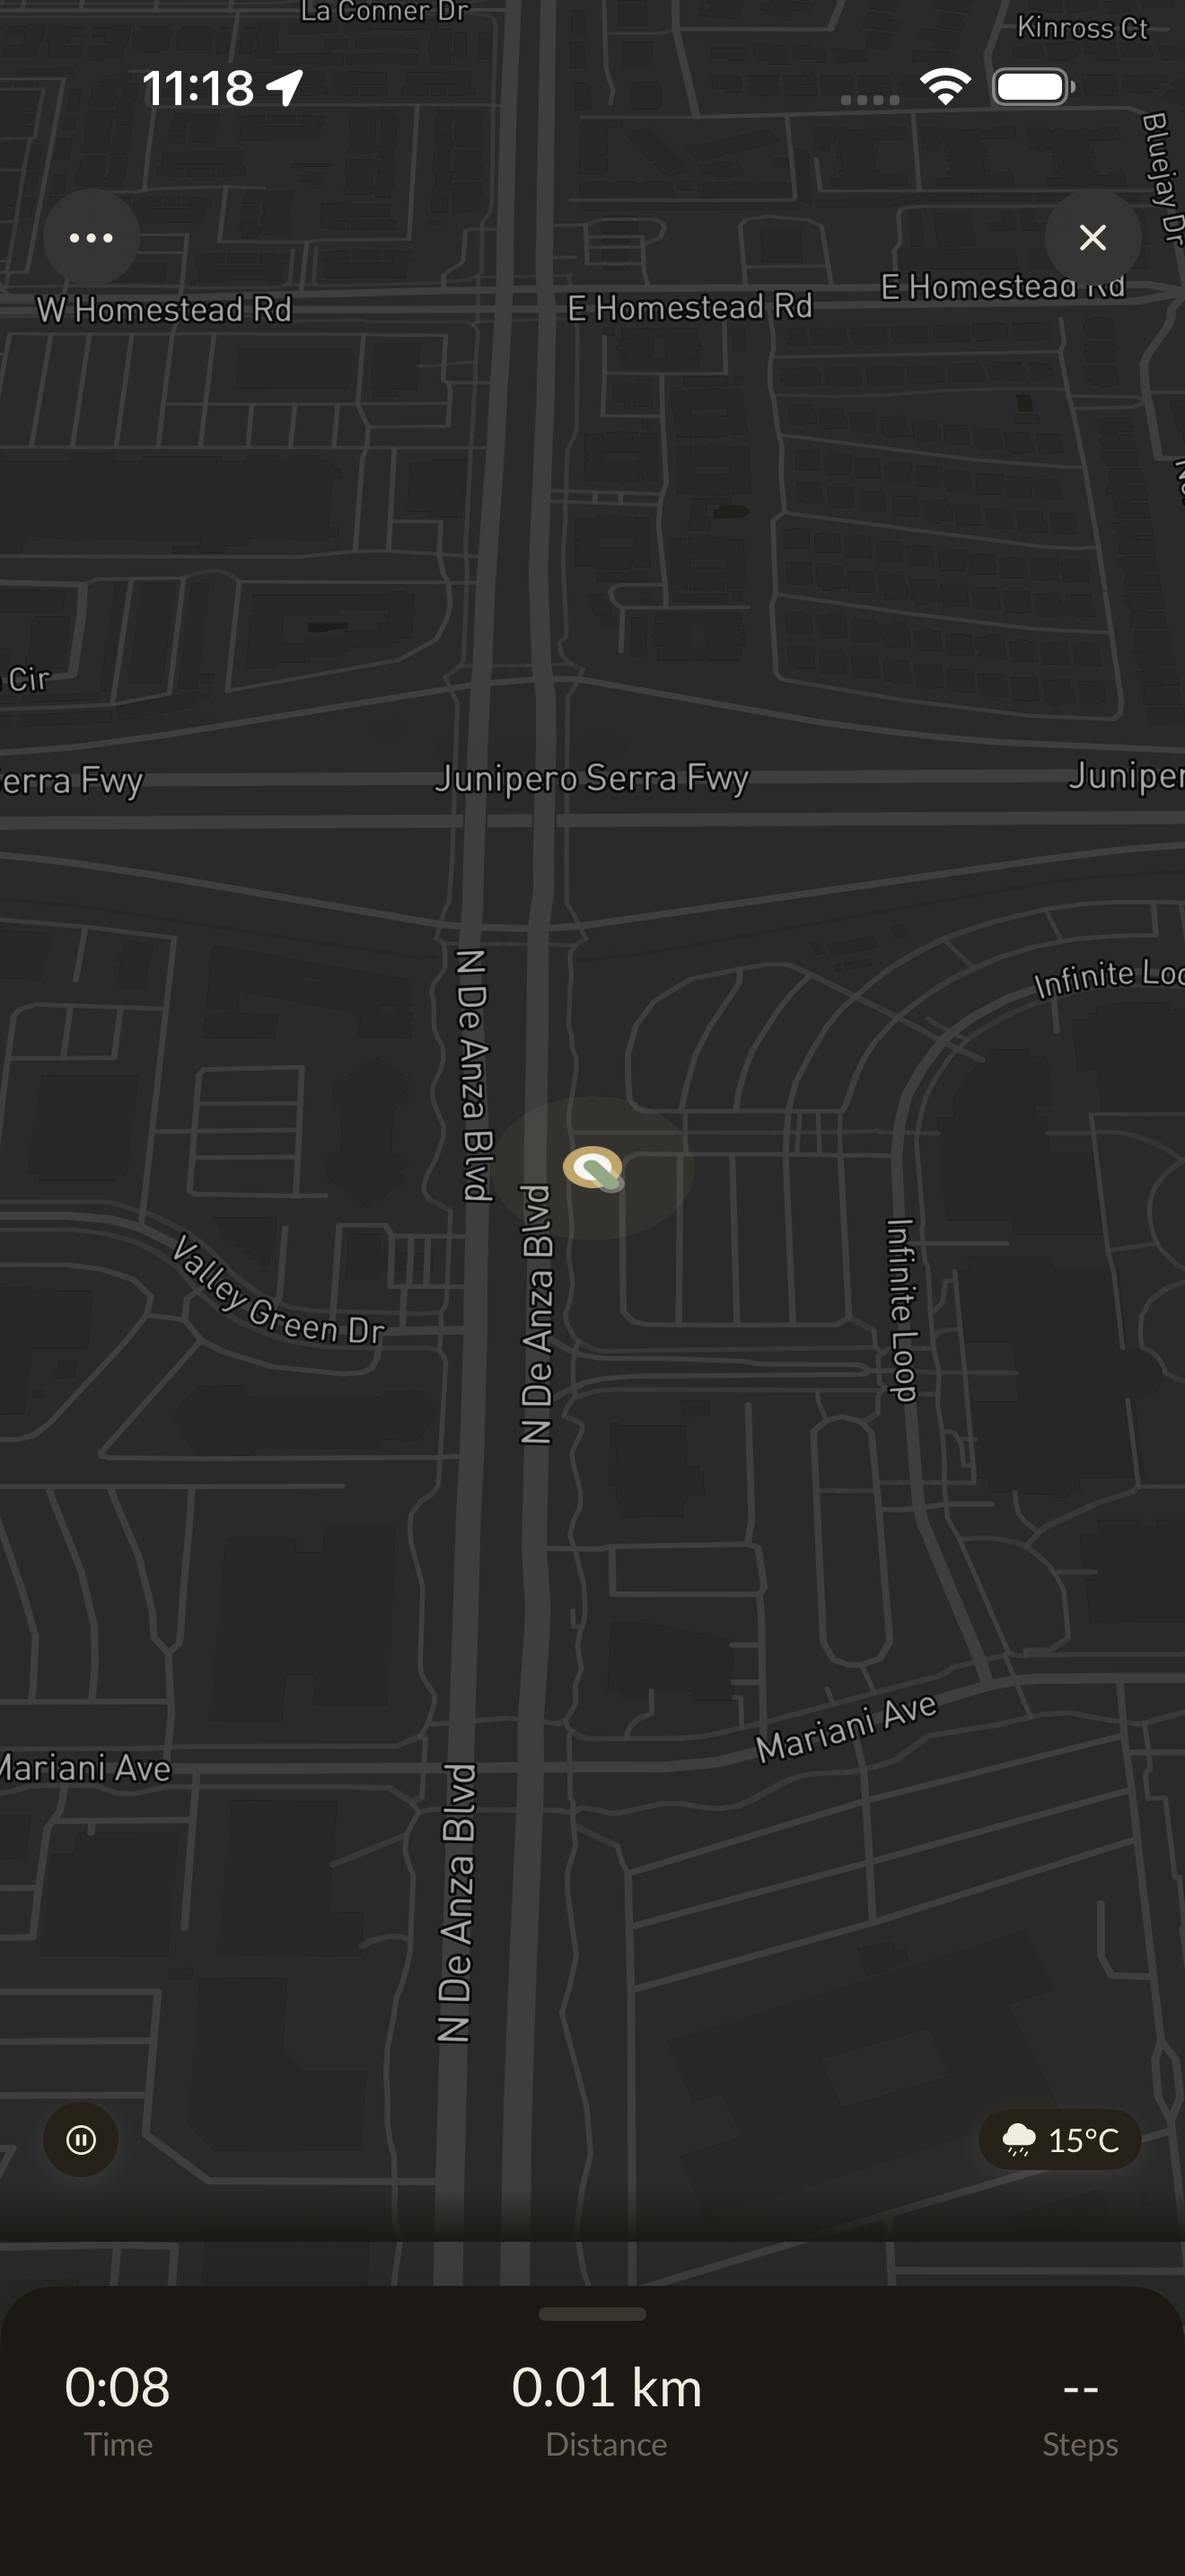
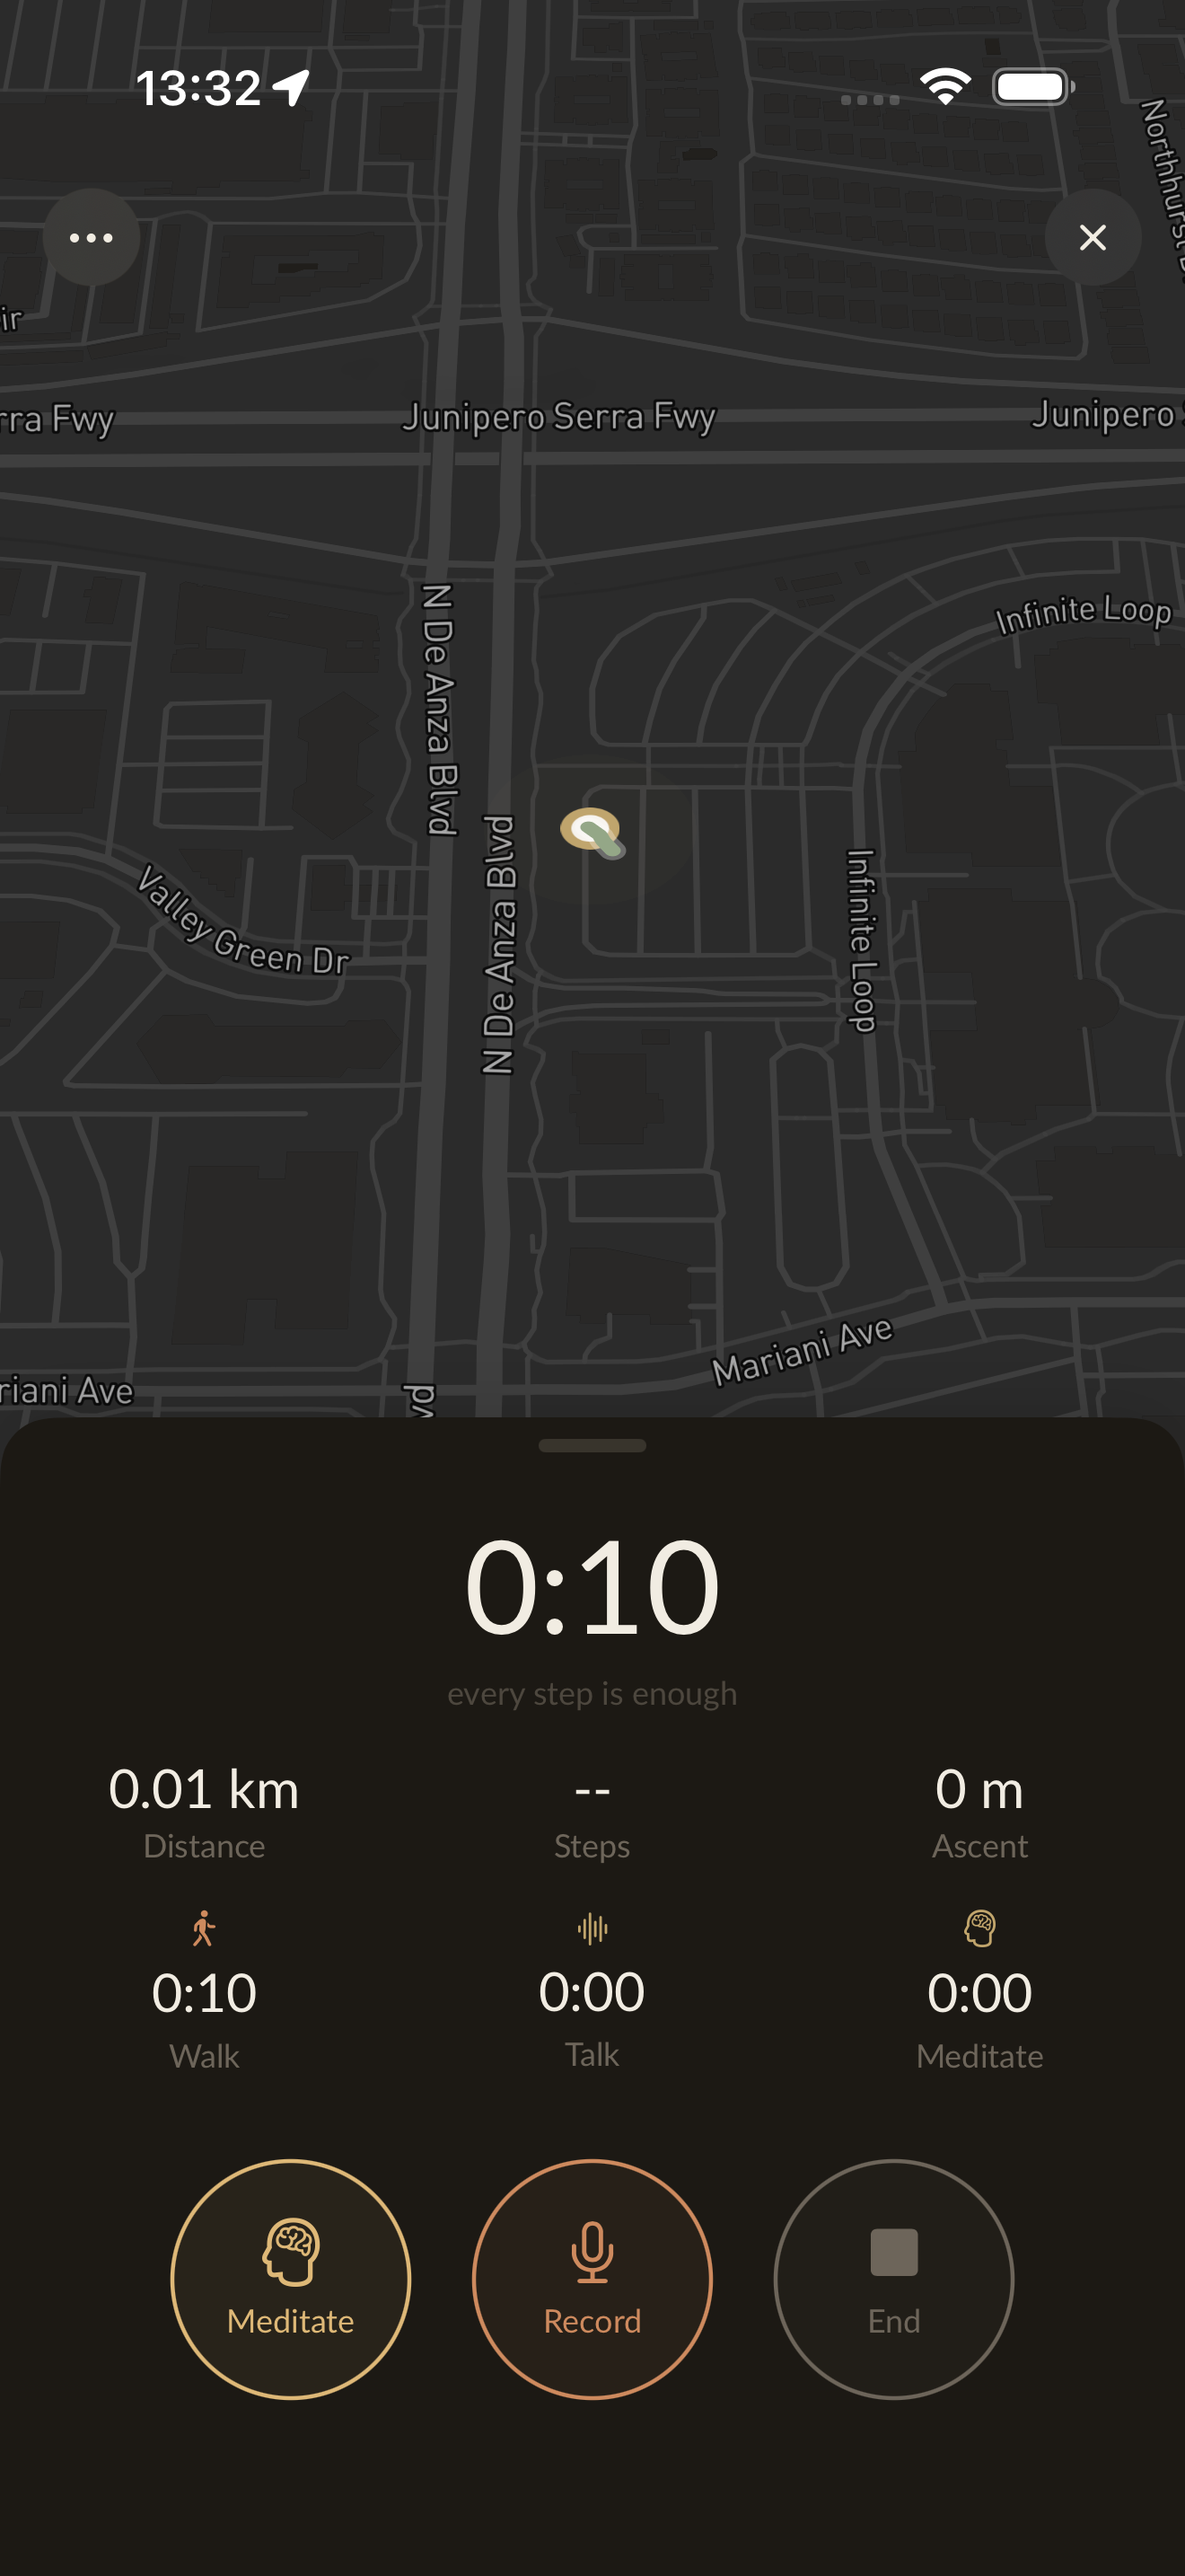
docs(screenshots): recapture 02_active_walk in expanded state
The minimized-bar shot made the app look empty to first-time viewers
who didn't know what had been collapsed. The expanded shot tells the
full walk ceremony at a glance — duration, intention mantra, stats,
activity timers, and the Meditate/Record/End controls — while still
leaving the map holding the top half of the screen.

Added a swipe-up in the test to re-expand the panel after the walk
enters recording state (where it auto-minimizes). Updated alt text
in README and landing page to match.

diff --git a/ScreenshotTests/ScreenshotTestCase.swift b/ScreenshotTests/ScreenshotTestCase.swift
@@ -60,6 +60,17 @@ class ScreenshotTestCase: XCTestCase {
             Thread.sleep(forTimeInterval: 8)
         }
 
+        // The stats panel auto-minimizes when the walk enters .recording
+        // state. For the showcase screenshot we want the expanded view
+        // so first-time viewers see the full walk ceremony — stats,
+        // intention mantra, timers, and action buttons — not the quieter
+        // map-first minimized bar (which only makes sense once you know
+        // what was hidden). Swipe up from near the bottom to re-expand.
+        let bottomCoord = app.coordinate(withNormalizedOffset: CGVector(dx: 0.5, dy: 0.92))
+        let topCoord = app.coordinate(withNormalizedOffset: CGVector(dx: 0.5, dy: 0.35))
+        bottomCoord.press(forDuration: 0.1, thenDragTo: topCoord)
+        Thread.sleep(forTimeInterval: 1)
+
         capture("\(prefix)02_active_walk")
 
         let meditateButton = app.buttons["Meditate"]

diff --git a/README.md b/README.md
@@ -12,7 +12,7 @@ A pilgrimage app for iOS. Track your walks, capture voice reflections, sit in me
 <table>
 <tr>
 <td><img src="docs/screenshots/01_walk_start.png" alt="Path tab with quote and moon phase" /></td>
-<td><img src="docs/screenshots/02_active_walk.png" alt="Active walk with full-screen map and a quiet minimized stats bar at the bottom" /></td>
+<td><img src="docs/screenshots/02_active_walk.png" alt="Active walk showing map, duration, intention mantra, stats, and Meditate, Record, and End controls" /></td>
 <td><img src="docs/screenshots/03_meditation.png" alt="Meditation breathing circle" /></td>
 </tr>
 <tr>
